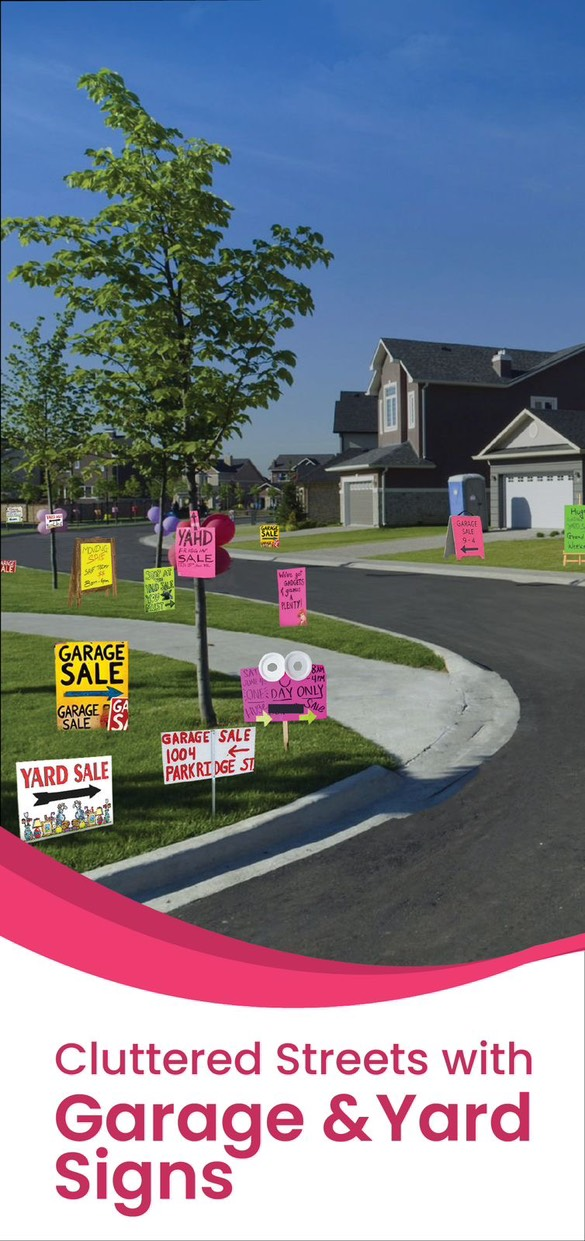
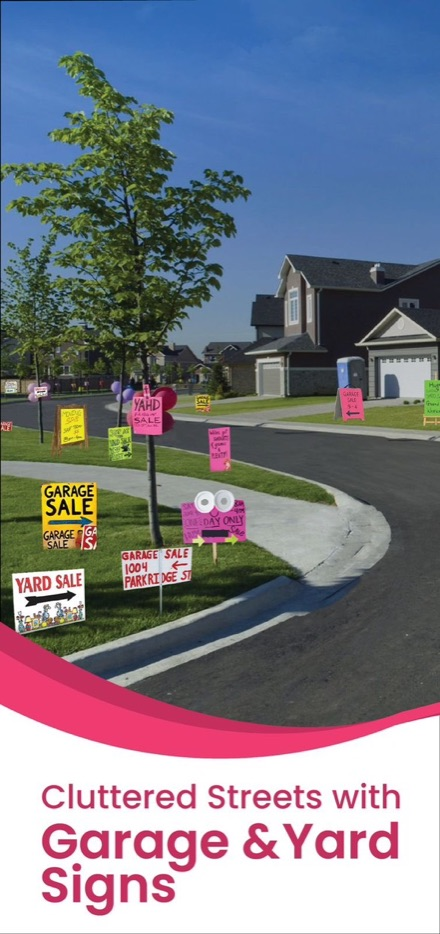
Speed up the home page on phones
PageSpeed scores the home page 84 on mobile, with a 4.1 s Largest
Contentful Paint against a 2.5 s target.

- Resize the carousel images to their displayed size and give them fixed
  dimensions. The first slide loads first; the others load lazily.
- Stop preloading every slide at once, which competed with the first one.
- Use a 96 px logo instead of the 500 px original.
- Load both font families in one request, with preconnect, and drop the
  unused Merriweather weights.
- Load the sales list, sale details, privacy policy, and terms pages on
  demand, and the confetti effect on first use.
- Lazy-load the demo video and below-the-fold images.

Changed region(s): [[0.0886, 0.4968, 0.2364, 0.5899], [0.2955, 0.5899, 0.3545, 0.621], [0.3841, 0.5899, 0.4136, 0.621]]

diff --git a/src/DownloadApp/DownloadApp.jsx b/src/DownloadApp/DownloadApp.jsx
@@ -18,6 +18,7 @@ const DownloadApp = () => {
               title="Find Garage and Yard Sale app demo video"
               src="https://player.vimeo.com/video/1042070258?dnt=1&title=0&byline=0&portrait=0&sidedock=0&color=ffffff"
               className="absolute top-0 left-0 w-full h-full border-0 rounded-xl"
+              loading="lazy"
               allow="autoplay"
             />
           </div>
@@ -44,6 +45,9 @@ const DownloadApp = () => {
                 <img
                   src={play_store}
                   alt="Get Find Garage and Yard Sale on Google Play"
+                  width={178}
+                  height={60}
+                  loading="lazy"
                   className="h-12 w-auto object-contain"
                 />
               </a>
@@ -56,6 +60,9 @@ const DownloadApp = () => {
                 <img
                   src={app_store}
                   alt="Download Find Garage and Yard Sale on the App Store"
+                  width={178}
+                  height={60}
+                  loading="lazy"
                   className="h-12 w-auto object-contain"
                 />
               </a>
@@ -68,6 +75,9 @@ const DownloadApp = () => {
                 <img
                   src={qr_code}
                   alt="QR code to download Find Garage and Yard Sale app"
+                  width={144}
+                  height={144}
+                  loading="lazy"
                   className="w-36 h-36 object-contain"
                 />
               </div>

diff --git a/src/Navbar/Navbar.jsx b/src/Navbar/Navbar.jsx
@@ -1,7 +1,6 @@
 import { useEffect, useState, useCallback, useRef } from "react";
 import { Link, useLocation } from "react-router-dom";
-import confetti from "canvas-confetti";
-import logo from "../assets/logo.png";
+import logo from "../assets/logo_96.png";
 
 const Navbar = () => {
   const lastConfettiRef = useRef(0);
@@ -12,12 +11,13 @@ const Navbar = () => {
     const rect = document.querySelector("[data-find-sales]")?.getBoundingClientRect();
     const x = rect ? (rect.left + rect.width / 2) / window.innerWidth : 0.5;
     const y = rect ? (rect.top + rect.height / 2) / window.innerHeight : 0.2;
-    confetti({
+    // Loaded on first use, so it isn't in the code every visitor downloads up front
+    import("canvas-confetti").then(({ default: confetti }) => confetti({
       particleCount: 80,
       spread: 70,
       origin: { x, y },
       colors: ["#BC2032", "#368841", "#995524", "#255099", "#FFC4CB"],
-    });
+    }));
   }, []);
   const [isOpen, setIsOpen] = useState(false);
   const [activeSection, setActiveSection] = useState("");
@@ -149,6 +149,8 @@ const Navbar = () => {
             <img
               src={logo}
               alt="Find Garage and Yard Sale"
+              width={48}
+              height={48}
               className="h-12 w-12 object-cover rounded-lg"
             />
           </Link>

diff --git a/src/App.jsx b/src/App.jsx
@@ -1,11 +1,14 @@
 import "./App.css";
+import { lazy, Suspense } from "react";
 import { createBrowserRouter, RouterProvider } from "react-router-dom";
 import Home from "./Home/Home";
-import PrivacyPolicy from "./PrivacyPolicy/PrivacyPolicy";
-import TermsAndConditions from "./TermsAndConditions/TermsAndConditions";
 import ErrorPage from "./ErrorPage/ErrorPage";
-import SalesList from "./pages/SalesList/SalesList";
-import SaleDetail from "./pages/SaleDetail/SaleDetail";
+
+// Other pages load on demand, so the home page doesn't download their code
+const PrivacyPolicy = lazy(() => import("./PrivacyPolicy/PrivacyPolicy"));
+const TermsAndConditions = lazy(() => import("./TermsAndConditions/TermsAndConditions"));
+const SalesList = lazy(() => import("./pages/SalesList/SalesList"));
+const SaleDetail = lazy(() => import("./pages/SaleDetail/SaleDetail"));
 
 const router = createBrowserRouter([
   {
@@ -43,7 +46,11 @@ const router = createBrowserRouter([
 ]);
 
 const App = () => {
-  return <RouterProvider router={router} />;
+  return (
+    <Suspense fallback={<div className="min-h-screen bg-white" />}>
+      <RouterProvider router={router} />
+    </Suspense>
+  );
 };
 
 export default App;

diff --git a/src/ImageCarousel/ImageCarousel.jsx b/src/ImageCarousel/ImageCarousel.jsx
@@ -15,12 +15,6 @@ export default function ImageCarousel() {
     { url: intro3, title: "Mobile Screen 3" },
   ];
 
-  // Preload images to reduce blinking
-  slides.forEach((slide) => {
-    const img = new Image();
-    img.src = slide.url;
-  });
-
   return (
     <div className="w-full">
       <Swiper
@@ -47,6 +41,12 @@ export default function ImageCarousel() {
             <img
               src={slide.url}
               alt={slide.title}
+              width={440}
+              height={934}
+              // The first slide is usually the largest thing on screen, so it loads first
+              loading={index === 0 ? "eager" : "lazy"}
+              fetchpriority={index === 0 ? "high" : "auto"}
+              decoding="async"
               className="w-full h-auto max-h-[320px] sm:max-h-[400px] md:max-h-[450px] object-fit rounded-2xl shadow-lg"
             />
           </SwiperSlide>

diff --git a/index.html b/index.html
@@ -3,12 +3,11 @@
   <head>
     <meta charset="UTF-8" />
     <link rel="icon" type="image/svg+xml" href="/favicon.ico" />
+    <link rel="preconnect" href="https://fonts.googleapis.com" />
+    <link rel="preconnect" href="https://fonts.gstatic.com" crossorigin />
+    <!-- One request for both families. The site uses Merriweather 700 and 900 only. -->
     <link
-      href="https://fonts.googleapis.com/css2?family=Rethink+Sans:wght@400;500;600;700&display=swap"
-      rel="stylesheet"
-    />
-    <link
-      href="https://fonts.googleapis.com/css2?family=Merriweather:wght@300;400;700;900&display=swap"
+      href="https://fonts.googleapis.com/css2?family=Merriweather:wght@700;900&family=Rethink+Sans:wght@400;500;600;700&display=swap"
       rel="stylesheet"
     />
 

diff --git a/src/Footer/Footer.jsx b/src/Footer/Footer.jsx
@@ -78,6 +78,9 @@ const Footer = () => {
                 <img
                   src={play_store}
                   alt="Get Find Garage and Yard Sale on Google Play"
+                  width={178}
+                  height={60}
+                  loading="lazy"
                   className="h-10 w-auto object-contain"
                 />
               </a>
@@ -90,6 +93,9 @@ const Footer = () => {
                 <img
                   src={app_store}
                   alt="Download Find Garage and Yard Sale on the App Store"
+                  width={178}
+                  height={60}
+                  loading="lazy"
                   className="h-10 w-auto object-contain"
                 />
               </a>
